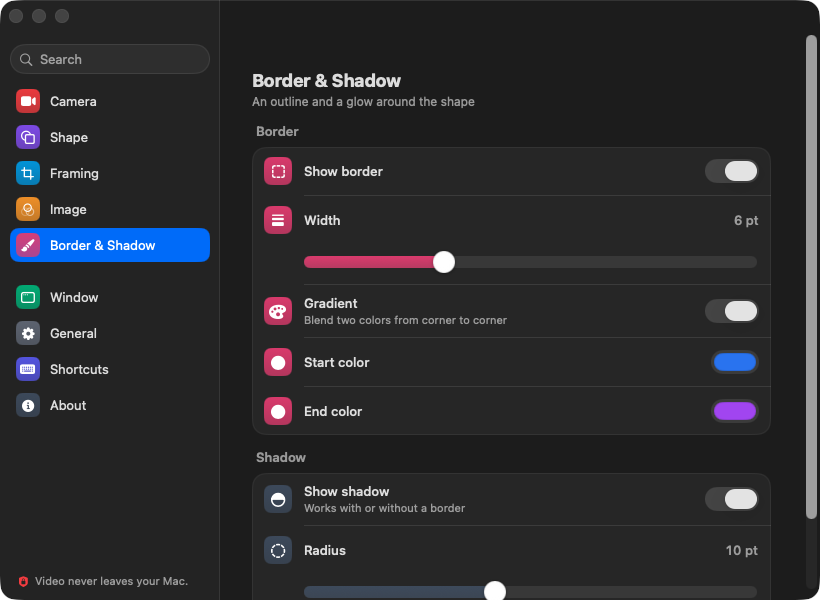
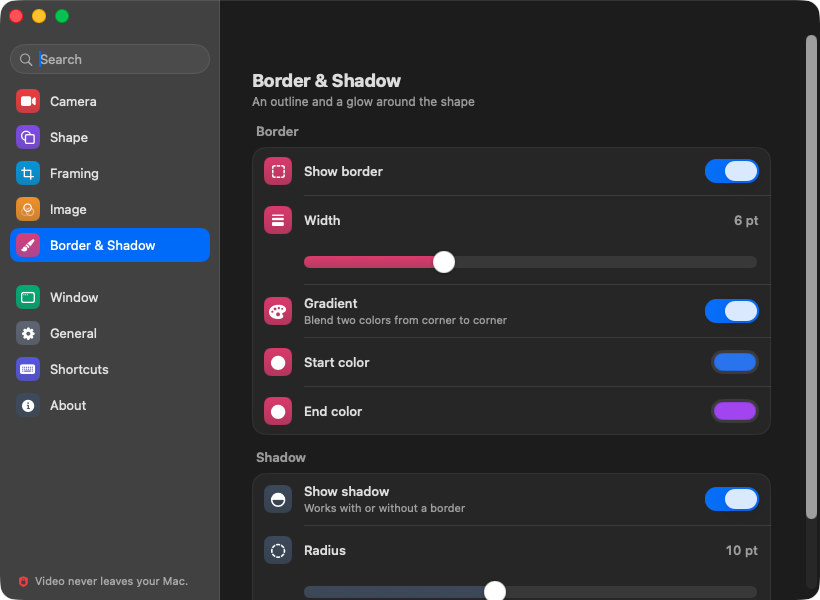
docs: README with screenshots and install/shortcut guide; fix names and links; README image mode for the composer

diff --git a/appstore/screenshots/compose.swift b/appstore/screenshots/compose.swift
@@ -1,8 +1,10 @@
 // Lays out the Mac App Store screenshots (1440×900) from the raw window captures in raw/ and a portrait for the
 // camera bubble.
 //
-// Run from the repo root:
-//     swift appstore/screenshots/compose.swift
+// Run from the repo root (compiled; the `swift` script runner crashes on ImageRenderer):
+//     swiftc -O -o /tmp/compose appstore/screenshots/compose.swift && /tmp/compose [--readme]
+//
+// --readme writes silhouette-only English images to docs/images for the README.
 //
 // Reads  appstore/screenshots/raw/<lang>-<page>.png  and  appstore/screenshots/portrait.jpg (optional; a silhouette
 // is drawn without it). Writes appstore/screenshots/<lang>/<n>-<name>.png.
@@ -195,8 +197,10 @@ func write<V: View>(_ view: V, to url: URL) throws {
     try png.write(to: url)
 }
 
-let portrait = NSImage(contentsOf: root.appendingPathComponent("portrait.jpg"))
-print(portrait == nil ? "(no portrait.jpg — drawing a silhouette)" : "using portrait.jpg")
+// --readme: English only, always the silhouette (the repo is public), written to docs/images.
+let forReadme = CommandLine.arguments.contains("--readme")
+let portrait = forReadme ? nil : NSImage(contentsOf: root.appendingPathComponent("portrait.jpg"))
+print(portrait == nil ? "(drawing a silhouette)" : "using portrait.jpg")
 
 let copy: [String: [(page: String, title: String, subtitle: String, style: BubbleStyle)]] = [
     "en": [
@@ -215,8 +219,8 @@ let copy: [String: [(page: String, title: String, subtitle: String, style: Bubbl
 
 MainActor.assumeIsolated {
     do {
-        for (lang, screens) in copy {
-            let dir = root.appendingPathComponent(lang)
+        for (lang, screens) in copy where !forReadme || lang == "en" {
+            let dir = forReadme ? URL(fileURLWithPath: "docs/images") : root.appendingPathComponent(lang)
             try FileManager.default.createDirectory(at: dir, withIntermediateDirectories: true)
             try write(Hero(lang: lang, portrait: portrait), to: dir.appendingPathComponent("1-hero.png"))
             for (i, s) in screens.enumerated() {

diff --git a/README.md b/README.md
@@ -1,82 +1,120 @@
-# CameraMan
+<p align="center">
+  <img src="CameraMan/Assets.xcassets/AppIcon.appiconset/icon_256x256.png" width="128" alt="CameraMan icon">
+</p>
 
-A small macOS camera overlay app with customizable shapes, draggable window, and status bar menu — similar to [Mini Video Me](https://github.com/maykbrito/mini-video-me), built with SwiftUI.
+<h1 align="center">CameraMan</h1>
+
+<p align="center">
+  A floating camera for your Mac — put yourself on screen in recordings, demos, classes and calls.<br>
+  <a href="https://github.com/lucianodiisouza/camera-man-macos/releases/latest"><b>Download the latest release</b></a> · Mac App Store (in review) · English &amp; Português (Brasil)
+</p>
+
+<p align="center">
+  <img src="docs/images/1-hero.png" alt="CameraMan bubble over a presentation" width="860">
+</p>
 
 ## Features
 
-- **Camera preview** with selectable video devices
-- **Shapes**: Circle, Organic (presets, shuffle, optional breathing), Square, Vertical 9:16, Horizontal 16:9; soft edge and corner radius
-- **Position & zoom**: Offset (arrow keys) and scale (+/-), reset zoom (R)
-- **Flip horizontal** (/), **cycle shape** (O), **switch camera** (Backspace), **toggle window size** (Space)
-- **Border**: Toggle, width, and color in Settings
-- **Settings window**: System Settings–style sidebar with search: Camera, Shape, Framing, Image, Border & Shadow, Window, General (open at login), Shortcuts, About
-- **Made for recording**: global shortcuts (⌃⌥⌘C show/hide, ⌃⌥⌘S size) from any app, follows you across desktops and full-screen apps, camera off while hidden, GPU color correction
-- **Languages**: English and Brazilian Portuguese
-- **Status bar menu**: Icon in menu bar with Settings, Restore defaults, Window size, Screen edge, Camera list, Quit
-- **Persistence**: UserDefaults for all settings
+- **Made for recording**: global shortcuts work from any app (⌃⌥⌘C show/hide, ⌃⌥⌘S switch size); the bubble follows you across desktops and over full-screen apps; the camera turns off completely while hidden or while the screen is locked
+- **Shapes**: circle, organic (five presets, shuffle, optional breathing motion), square, vertical 9:16 and horizontal 16:9, with soft edge and corner radius
+- **Framing**: move the image inside the shape, zoom, mirror or flip
+- **Look**: brightness, contrast and saturation on the GPU; solid or gradient border; soft shadow; works with macOS video effects (Portrait, Studio Light, backgrounds)
+- **Window**: five sizes, snap to any corner, each size remembers its own place, Space switches between your two favourite sizes
+- **Light**: sharp HD image at about 3% CPU and ~27 MB of memory
+- **Settings window** in the style of System Settings, with search
+- **Menu bar** icon, optional Dock icon, open at login
+- **Private**: no network access, no account, no analytics — video never leaves your Mac
 
-## Requirements
+<table>
+  <tr>
+    <td><img src="docs/images/2-shape.png" alt="Shape settings"></td>
+    <td><img src="docs/images/3-border.png" alt="Border and shadow settings"></td>
+  </tr>
+  <tr>
+    <td><img src="docs/images/4-shortcuts.png" alt="Shortcuts"></td>
+    <td><img src="docs/images/5-framing.png" alt="Framing settings"></td>
+  </tr>
+</table>
 
-- macOS 14.0+
-- Xcode 15+
-- Camera (built-in or external)
+## Install
 
-## Build & Run
+Download `CameraMan-<version>.dmg` from [Releases](https://github.com/lucianodiisouza/camera-man-macos/releases/latest), open it and drag CameraMan to Applications. The app is signed and notarized by Apple, so it opens without warnings. On first launch macOS asks for camera access.
+
+Requires macOS 14 Sonoma or later.
+
+## Keyboard shortcuts
+
+| Action | Keys | Where |
+|---|---|---|
+| Show / hide camera | ⌃⌥⌘C | any app |
+| Switch window size | ⌃⌥⌘S | any app |
+| Move the image | ← → ↑ ↓ | camera window |
+| Zoom in / out, reset | + / −, R | camera window |
+| Mirror / flip | / , V | camera window |
+| Next shape | O | camera window |
+| Next camera | ⌫ | camera window |
+| Switch window size | Space | camera window |
+| Settings | ⌘, | menu |
+
+Global shortcuts can be turned off in Settings → Shortcuts.
+
+## Build from source
+
+Requirements: macOS 14+, Xcode 16+, a camera.
 
 1. Open `CameraMan.xcodeproj` in Xcode.
-2. Select the **CameraMan** scheme and **My Mac** as destination.
-3. Build and run (⌘R).
+2. Select the **CameraMan** scheme and **My Mac**, then Build and Run (⌘R).
 
 Or from the command line:
 
 ```bash
-cd camera-man
-xcodebuild -scheme CameraMan -configuration Debug -destination 'platform=macOS' build
-open build/Release/CameraMan.app
+xcodebuild -scheme CameraMan -configuration Debug -destination 'platform=macOS' -derivedDataPath build build
+open build/Build/Products/Debug/CameraMan.app
 ```
 
-## Creating a DMG for distribution
+Sign debug builds with your own development team (Signing & Capabilities). Ad-hoc builds work, but macOS asks for camera access again after every rebuild, because it remembers the permission per signature.
 
-**Prerequisites:** install [`create-dmg`](https://github.com/create-dmg/create-dmg) (first time only):
+## Distribution
 
-```bash
-brew install create-dmg
-```
+### DMG (signed and notarized)
 
-To build a Release version and create a DMG that users can install (drag to Applications):
+Prerequisite (first time only): `brew install create-dmg`
 
 ```bash
 ./create-dmg.sh
 ```
 
-This produces `CameraMan-<version>.dmg` in the project root, with the version taken from `MARKETING_VERSION` in the Xcode project.
-
-You can upload the DMG to GitHub Releases, your website, or any file host for others to download and install.
-
-### Signing and notarization
-
-`create-dmg.sh` signs the app with a Developer ID certificate (hardened runtime + camera entitlement), notarizes and staples both the app and the DMG, so it opens on any Mac without Gatekeeper warnings. It reads two settings from the environment or from a git-ignored `.env.local`:
+It builds a universal Release, signs it with a Developer ID certificate (hardened runtime + App Sandbox + camera entitlement), notarizes and staples both the app and the DMG, and writes `CameraMan-<version>.dmg` in the project root, with the version from `MARKETING_VERSION`. It reads two settings from the environment or from a git-ignored `.env.local`:
 
 ```bash
 CAMERAMAN_SIGN_IDENTITY="Developer ID Application: Your Name (TEAMID)"
 CAMERAMAN_NOTARY_PROFILE="your-notary-profile"   # from: xcrun notarytool store-credentials
 ```
 
-Without them the DMG is still built, but ad-hoc signed, and macOS will block it on other Macs (right-click → Open to get past it).
+Without them the DMG is still built, but ad-hoc signed, and macOS blocks it on other Macs.
 
-## Mac App Store
+DMG copies don't update themselves: new versions are published on GitHub Releases. App Store copies update through the App Store.
+
+### Mac App Store
 
 ```bash
 ./appstore.sh            # archive + export a signed .pkg to build/appstore
 ./appstore.sh --upload   # archive + upload to App Store Connect
 ```
 
-Signing is automatic through the Apple account in Xcode → Settings → Accounts. Listing text, review notes and screenshot sizes are in [appstore/LISTING.md](appstore/LISTING.md); the privacy policy is [PRIVACY.md](PRIVACY.md).
+Signing is automatic through the Apple account in Xcode → Settings → Accounts. Listing text (English and Portuguese), review notes and screenshot sizes are in [appstore/LISTING.md](appstore/LISTING.md); the privacy policy is [PRIVACY.md](PRIVACY.md).
 
-## Usage
+Screenshots are composed from real captures of the settings window by [appstore/screenshots/compose.swift](appstore/screenshots/compose.swift); `--readme` writes the images used on this page.
 
-- **Settings**: Use **⌘,** or the menu bar icon. Use the status bar icon for quick access when the window is in the background.
-- **Keyboard shortcuts** (with window focused): Arrows (position), +/− (zoom), R (reset zoom), / (flip), O (cycle shape), Backspace (next camera), Space (toggle window size).
+### App icon
+
+```bash
+swift generate-icon.swift
+```
+
+## Localization
+
+English and Brazilian Portuguese, in String Catalogs (`CameraMan/Localizable.xcstrings`, `CameraMan/InfoPlist.xcstrings`). CameraMan follows the Mac's language; Settings → General → Language opens the macOS setting to pick one just for CameraMan.
 
 ## Contributing
 

diff --git a/SECURITY.md b/SECURITY.md
@@ -10,7 +10,7 @@ We release updates for the latest major version. Security fixes may be backporte
 
 ## Reporting a Vulnerability
 
-If you discover a security issue in Camera-Man, please report it responsibly:
+If you discover a security issue in CameraMan, please report it responsibly:
 
 1. **Do not** open a public GitHub issue for security vulnerabilities.
 2. **Email** the maintainers (e.g. via the email listed in your Git config for the repo, or open an issue asking for a private contact) with:
@@ -24,4 +24,4 @@ We appreciate the effort of security researchers and will do our best to respond
 
 ## Scope
 
-Camera-Man is a local macOS app that uses the camera and stores settings in UserDefaults. In scope: issues that could lead to unauthorized camera access, data exposure, or code execution. Out of scope: issues that require physical access, already compromised machine, or issues in macOS/Xcode themselves (report those to Apple).
+CameraMan is a local macOS app that uses the camera and stores settings in UserDefaults. In scope: issues that could lead to unauthorized camera access, data exposure, or code execution. Out of scope: issues that require physical access, already compromised machine, or issues in macOS/Xcode themselves (report those to Apple).

diff --git a/CONTRIBUTING.md b/CONTRIBUTING.md
@@ -1,16 +1,16 @@
-# Contributing to Camera-Man
+# Contributing to CameraMan
 
-Thank you for considering contributing to Camera-Man. Below are some guidelines to make the process smooth.
+Thank you for considering contributing to CameraMan. Below are some guidelines to make the process smooth.
 
 ## How to Contribute
 
-- **Bug reports and feature requests:** Open a [GitHub Issue](https://github.com/oprimodev/camera-man-macos/issues). Use the issue templates if available, and include steps to reproduce for bugs.
+- **Bug reports and feature requests:** Open a [GitHub Issue](https://github.com/lucianodiisouza/camera-man-macos/issues). Use the issue templates if available, and include steps to reproduce for bugs.
 - **Code changes:** Open a Pull Request from a fork. Keep PRs focused (one feature or fix per PR) and reference any related issues.
 
 ## Development Setup
 
 1. Clone the repo and open `CameraMan.xcodeproj` in Xcode.
-2. Requirements: macOS 14.0+, Xcode 15+.
+2. Requirements: macOS 14.0+, Xcode 16+.
 3. Select the **CameraMan** scheme and **My Mac**, then build and run (⌘R).
 
 Command-line build:

diff --git a/CHANGELOG.md b/CHANGELOG.md
@@ -22,7 +22,7 @@ The format is based on [Keep a Changelog](https://keepachangelog.com/en/1.1.0/),
 - The camera follows you to every desktop and over full-screen apps
 - Settings point to the macOS video effects (Portrait, Studio Light, Background) in the menu bar
 - Hide Dock icon option (menu bar only)
-- App Sandbox, ready for the Mac App Store
+- App Sandbox; submitted to the Mac App Store as "CameraMan: Floating Webcam"
 - Brazilian Portuguese (pt-BR); Settings → General → Language picks the language just for CameraMan
 - App icon
 - Signed with Developer ID and notarized by Apple: opens without Gatekeeper warnings
